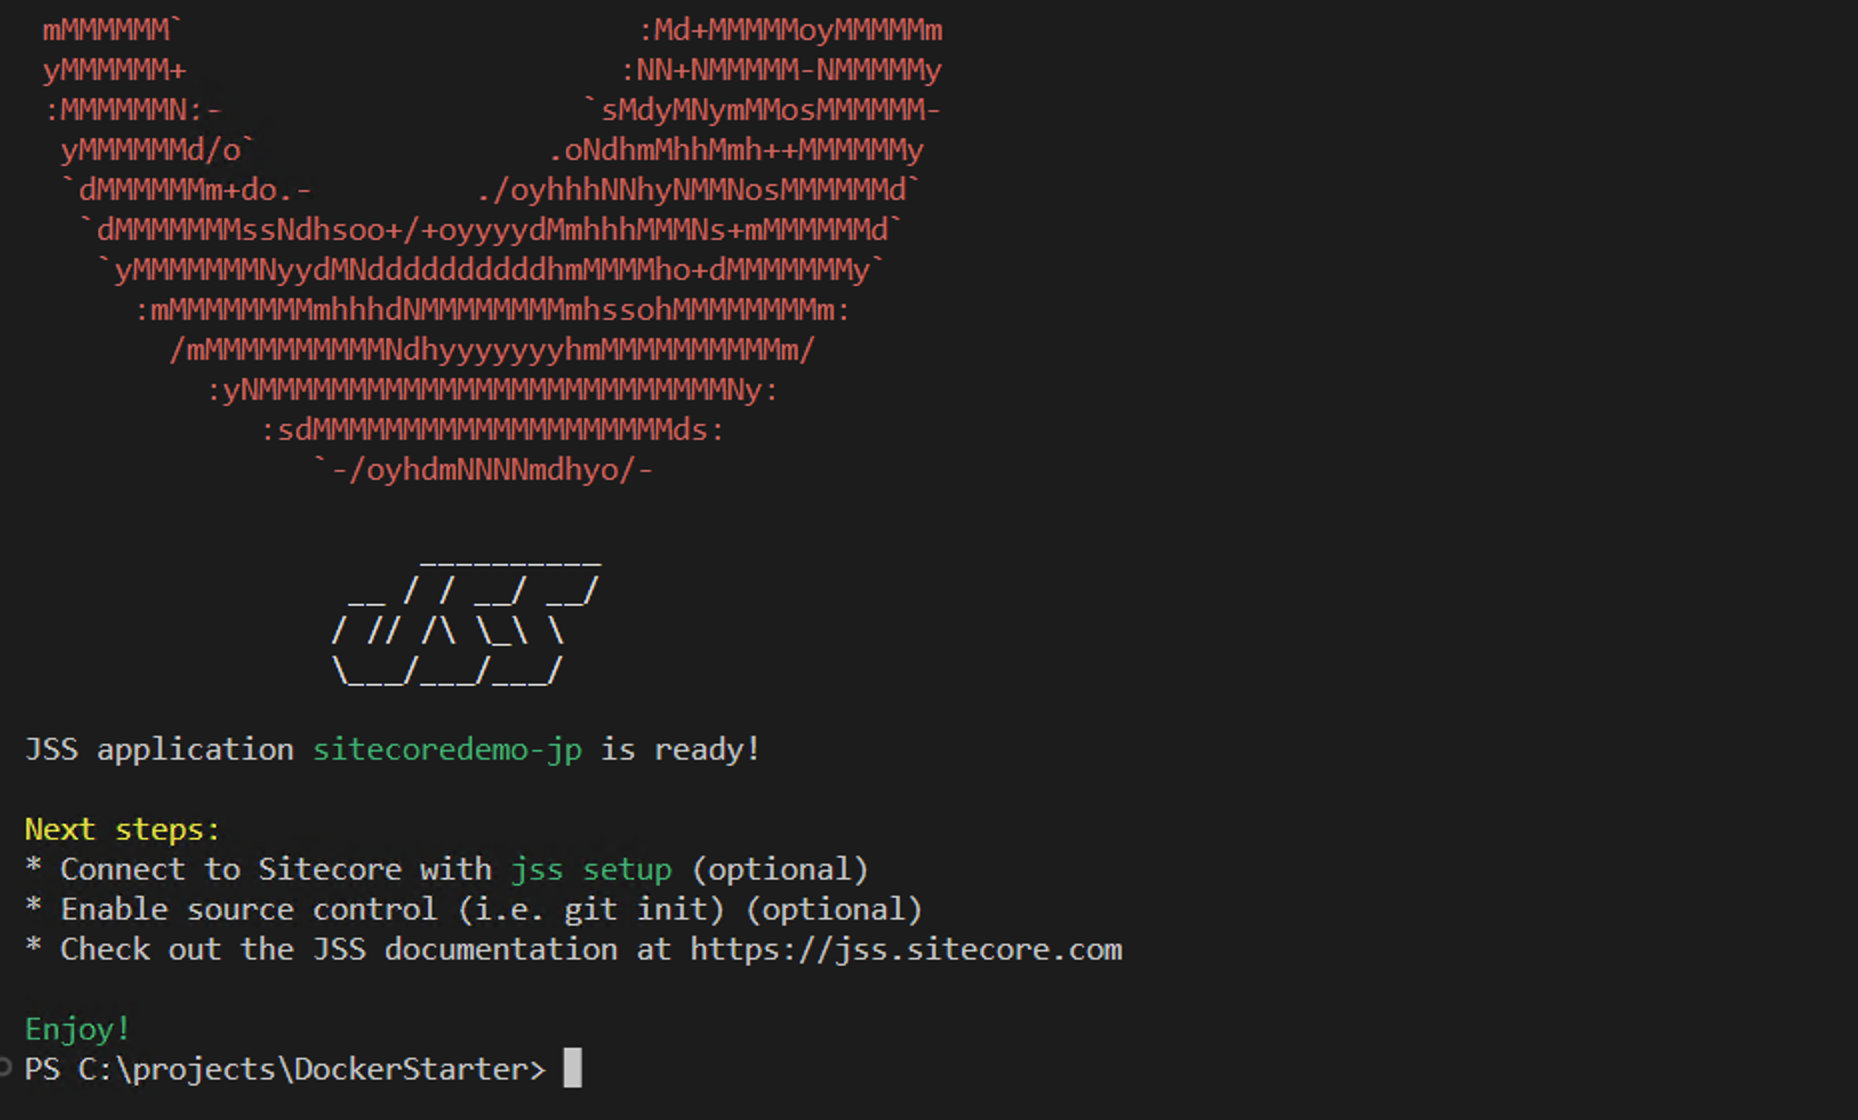
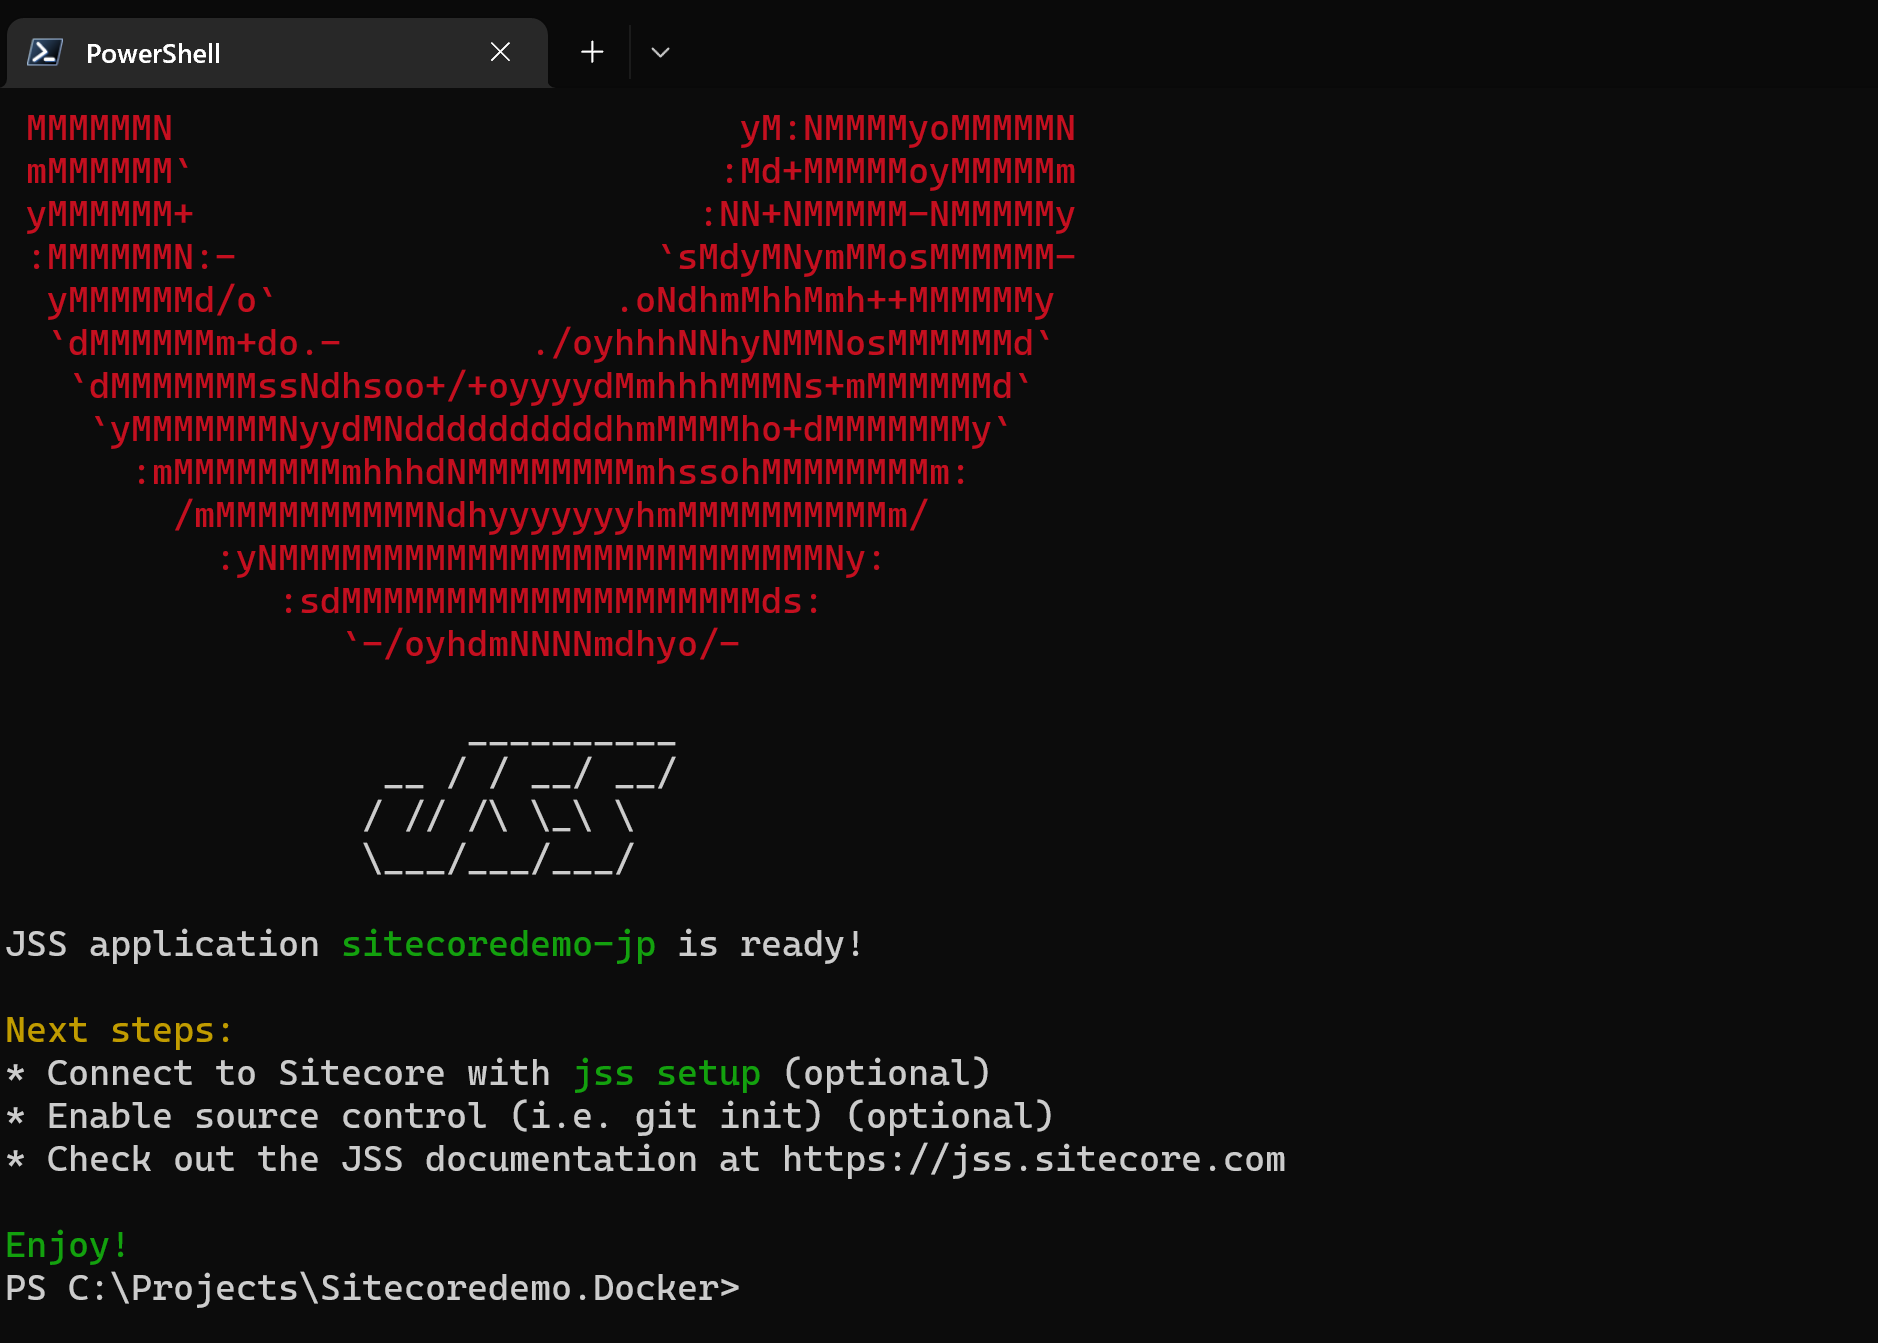
add headless site

Changed region(s): [[0.0, 0.0, 0.6868, 0.875], [0.0, 0.9062, 0.4058, 0.9688]]

diff --git a/data/blog/2023/01/16/add-headless-site.md b/data/blog/2023/01/16/add-headless-site.md
@@ -1,0 +1,194 @@
+---
+title: ヘッドレスサイトを追加する
+date: '2023-01-16'
+tags: ['Docker', 'Next.js', 'XM']
+draft: false
+summary: プロジェクトの作成、XM1 の環境整備、そして前回は SXA のモジュールのインストールをしました。今回はこのプロジェクトに対して、ヘッドレスのサイトを追加して、Next.js のプロジェクトと連携させていきます。手順が長くなるため、今回はヘッドレスのサイトを追加して、そのデータをいつでも再利用できるようにシリアライズができるところまで紹介をします。
+images: ['/static/images/2023/01/jss06.png']
+---
+
+プロジェクトの作成、XM1 の環境整備、そして前回は SXA のモジュールのインストールをしました。今回はこのプロジェクトに対して、ヘッドレスのサイトを追加して、Next.js のプロジェクトと連携させていきます。手順が長くなるため、今回はヘッドレスのサイトを追加して、そのデータをいつでも再利用できるようにシリアライズができるところまで紹介をします。
+
+## Headless のテナントを追加する
+
+すでに用意されている XM のインスタンスにおいて、サイトを追加していきます。まず最初に JSS テナントを追加してください。
+
+![jss](/static/images/2023/01/jss01.png)
+
+ここでは `sitecoredemo-jp` とします。
+
+![jss](/static/images/2023/01/jss02.png)
+
+続いてテナントの中に JSS サイトを追加します。右クリックをするとサイトの追加のメニューが表示されます。
+
+![jss](/static/images/2023/01/jss03.png)
+
+サイトの名前に関しては `sitecoredemo-jp` とします。
+
+![jss](/static/images/2023/01/jss04.png)
+
+利用するモジュールはすべての機能を選択します。
+
+![jss](/static/images/2023/01/jss05.png)
+
+上記の手順が終了すると、以下のようにサイトが追加されます。
+
+![jss](/static/images/2023/01/jss06.png)
+
+## 作成したデータのシリアライズ
+
+今回は新規サイトを作成していきましたが、日本語リソースと同様にクリーンナップしたあと改めて同じ作業をするのは手間になります。そこで、作成したデータをいつでも戻せるように、シリアライズを実行したいと思います。
+
+ここで Sitecore CLI を利用します。プロジェクトのトップレベルで以下のコマンドを実行して、まずはコマンドラインから Sitecore に書き込みができるようにします。
+
+```
+dotnet sitecore login --cm https://cm.sitecoredemo.localhost/ --auth https://id.sitecoredemo.localhost/ --allow-write true
+```
+
+ログイン画面が表示されて、以下のようにアクセスしてよいかの確認画面が出てきます。
+
+![jss](/static/images/2023/01/jss07.png)
+
+ここで許可をしてください。続いて Sitecore で作成をしたアイテムを取得する前に、プロジェクトで用意をしている API キーをサイトに反映させます。コマンドを実行する前に、src 直下にある json ファイルのうち、 `src\InitItems.module.json` だけを利用するため、これ以外のファイルの拡張子を一時的に .txt に変更します。変更後、以下のコマンドで API キーをインポートします。
+
+```
+dotnet sitecore ser push
+```
+
+![jss](/static/images/2023/01/jss08.png)
+
+実行後、コンテンツエディターで API キーがインポートされていることがわかります。
+
+![jss](/static/images/2023/01/jss09.png)
+
+続いて作成をしたサイトのデータをシリアライズするために、この手順の前に変更をした２つのファイルの拡張子を json に戻してください。
+
+標準で用意されているパスとは異なる形で今回サイトを作成したため、２つのファイルのパスを調整します。下記のパスは、作成したサイト名によって異なるため、適宜 CMS に展開されているパスを参照してください。
+
+```json:src\DockerStarter.module.json
+{
+    "namespace": "DockerStarter",
+    "references": [ "InitItems" ],
+    "items": {
+        "includes": [
+            {
+                "name": "layouts",
+                "path": "/sitecore/layout/Layouts/Project"
+            },
+            {
+                "name": "placeholders",
+                "path": "/sitecore/layout/Placeholder Settings/Project/sitecoredemo-jp"
+            },
+            {
+                "name": "renderings",
+                "path": "/sitecore/layout/Renderings/Project/sitecoredemo-jp"
+            },
+            {
+                "name": "templates",
+                "path": "/sitecore/templates/Project/sitecoredemo-jp"
+            }
+        ]
+    }
+}
+```
+
+もう一つのコンテンツに関するファイルは以下のように変更してください。
+
+```json:src\DockerStarter-Content.module.json
+{
+    "namespace": "DockerStarter-Content",
+    "references": [ "DockerStarter" ],
+    "items": {
+        "includes": [
+            {
+                "name": "content",
+                "path": "/sitecore/content/sitecoredemo-jp"
+            },
+            {
+                "name": "media",
+                "path": "/sitecore/media library/Project/sitecoredemo-jp"
+            }
+        ]
+    }
+}
+```
+
+上記の変更が終わった後、以下のコマンドを実行します。
+
+```
+dotnet sitecore ser pull
+```
+
+![jss](/static/images/2023/01/jss10.png)
+
+作成をしたサイトのデータがシリアライズされて、items のフォルダの下に yaml ファイルが作成されています。
+
+![jss](/static/images/2023/01/jss11.png)
+
+## Core データベースのアイテムを追加
+
+上記のデータはすべて Master データベースに関してのシリアライズの処理をしていました。言語設定として日本語を追加しているため、core データベースのアイテムもシリアライズでエクスポートをしておきます。今回は `src\InitItems.module.json` のファイルに以下のように `core-language` という形で最後の項目を追加しておきました。
+
+```json:src\src\InitItems.module.json
+{
+    "namespace": "InitItems",
+    "items" : {
+        "includes": [
+            {
+                "name": "content-root",
+                "path": "/sitecore/content",
+                "scope": "singleItem",
+                "allowedPushOperations": "createAndUpdate"
+            },
+            {
+                "name": "api-key",
+                "path": "/sitecore/system/Settings/Services/API Keys/DockerStarter",
+                "scope": "singleItem"
+            },
+            {
+                "name": "core-language",
+                "path": "/sitecore/system/Languages",
+                "database": "core"
+            }       
+        ]
+    }
+}
+```
+
+上記の設定を実施したあと、改めてシリアライズを実行しておきます。
+
+```
+dotnet sitecore ser pull
+```
+
+## インポートのテスト
+
+上記の作業で作成をしたシリアライズのデータを、新規の環境に対してインポートできるかどうかのテストを実施します。起動している XM1 の環境を一度落として、データをクリーンナップをしてクリーンな環境で起動をします。
+
+```
+docker-compose down
+cd docker
+.\clean.ps1
+cd ..
+docker-compose up -d
+```
+
+立ち上がったあと、コマンドラインでログインをします。すでに一度上記の手続きの時にログインをしているため、今回はシンプルに以下のコマンドだけでログインすることが可能です。
+
+```
+dotnet sitecore login
+```
+
+その後、
+
+```
+dotnet sitecore ser push
+```
+
+サイトが復元されていることを確認しました。
+
+![jss](/static/images/2023/01/jss12.png)
+
+## まとめ
+
+今回は Sitcore 側にヘッドレスの Web サイトを追加しました。次回はこのサイトと Next.js のプロジェクトを連携するための手順を確認していきます。

diff --git a/data/blog/2023/01/17/add-nextjs-project.md b/data/blog/2023/01/17/add-nextjs-project.md
@@ -1,13 +1,13 @@
 ---
 title: Next.js のプロジェクトを追加する
-date: '2023-01-16'
+date: '2023-01-17'
 tags: ['Docker', 'Next.js', 'XM']
 draft: false
-summary: プロジェクトの作成、XM1 の環境整備、そして前回は SXA のモジュールのインストールをしました。今回はこのプロジェクトに対して、Next.js で利用することができる Sitecore Experience Accelrator - Headless SXA のプロジェクトを追加したいと思います。
-images: ['/static/images/2023/01/newproject01.png']
+summary: 前回作成をしたヘッドレスのサイトはまだサイトコアのアイテムがあるだけとなっています。今回はこれに Next.js のプロジェクトを追加して、ページの編集ができるところまでの紹介をします。
+images: ['/static/images/2023/01/nextjs03.png']
 ---
 
-プロジェクトの作成、XM1 の環境整備、そして前回は SXA のモジュールのインストールをしました。今回はこのプロジェクトに対して、Next.js で利用することができる Sitecore Experience Accelrator - Headless SXA のプロジェクトを追加したいと思います。
+前回作成をしたヘッドレスのサイトはまだサイトコアのアイテムがあるだけとなっています。今回はこれに Next.js のプロジェクトを追加して、ページの編集ができるところまでの紹介をします。
 
 ## Next.js SXA のプロジェクトを作成する
 
@@ -17,7 +17,7 @@ images: ['/static/images/2023/01/newproject01.png']
 
 まずコンテナを動かすために利用していた `src\rendering` のフォルダを削除します。この段階で、src の下には何もない状況なのを確認してください。
 
-![newproject](/static/images/2023/01/nextjs01.png)
+![nextjs](/static/images/2023/01/nextjs01.png)
 
 ここでバージョンを指定してテンプレートを作成するために、以下のようにコマンドを実行してください（以下の数字は GitHub のリポジトリの番号になります）。
 
@@ -25,9 +25,9 @@ images: ['/static/images/2023/01/newproject01.png']
 npx create-sitecore-jss@21.0.0 --templates nextjs,nextjs-sxa
 ```
 
-ここからは、普通に Next.js のプロジェクトの設定を入れていく形です。
+ここからは、普通に Next.js のプロジェクトの設定を入れていく形です。ここから先のプロジェクトのフォルダは `C:\Projects\Sitecoredemo.Docker` としていますので、随時手元に合わせて実行してください。
 
-1. インストール先のディレクトリの確認が表示されます。今回は、`C:\projects\DockerStarter\src\rendering` を指定します。
+1. インストール先のディレクトリの確認が表示されます。今回は、`C:\Projects\Sitecoredemo.Docker\src\rendering` を指定します。
 2. アプリの名前の確認が表示されます。アプリの名前は、今回は `sitecoredemo-jp` とします。
 3. CMS サーバーの名前を次に聞かれますが、 `cm.sitecoredemo.localhost` と設定します。
 4. 続いて GraphQL か REST のどちらのプロジェクトにするかを確認してきます。今回は `GraphQL` を選択します。
@@ -35,11 +35,11 @@ npx create-sitecore-jss@21.0.0 --templates nextjs,nextjs-sxa
 
 これでセットアップの手順が完了となります。自動的に `npm install` などが実行されます。
 
-![newproject](/static/images/2023/01/nextjs02.png)
+![nextjs](/static/images/2023/01/nextjs02.png)
 
 しばらくすると以下のようにプロジェクト作成完了となります。
 
-![newproject](/static/images/2023/01/nextjs03.png)
+![nextjs](/static/images/2023/01/nextjs03.png)
 
 これでプロジェクトが作成されました。
 

diff --git a/data/blog/2023/01/13/add-japanese-resource.md b/data/blog/2023/01/13/add-japanese-resource.md
@@ -3,11 +3,11 @@ title: 日本語リソースの追加
 date: '2023-01-13'
 tags: ['Docker', 'XM']
 draft: false
-summary: すでに XM の環境が起動していますが、今回はこの環境に日本語のリソースを追加する手順を紹介していきます。
-images: ['/static/images/2023/01/newproject01.png']
+summary: すでに XM の環境が起動していますが、管理画面で表示される言語がデフォルトの英語になっています。今回は管理画面で日本語を利用することができるように、日本語のリソースを追加する手順を紹介していきます。
+images: ['/static/images/2023/01/jajp02.png']
 ---
 
-すでに XM の環境が起動していますが、今回はこの環境に日本語のリソースを追加する手順を紹介していきます。
+すでに XM の環境が起動していますが、管理画面で表示される言語がデフォルトの英語になっています。今回は管理画面で日本語を利用することができるように、日本語のリソースを追加する手順を紹介していきます。
 
 ## 日本語リソースの準備
 
